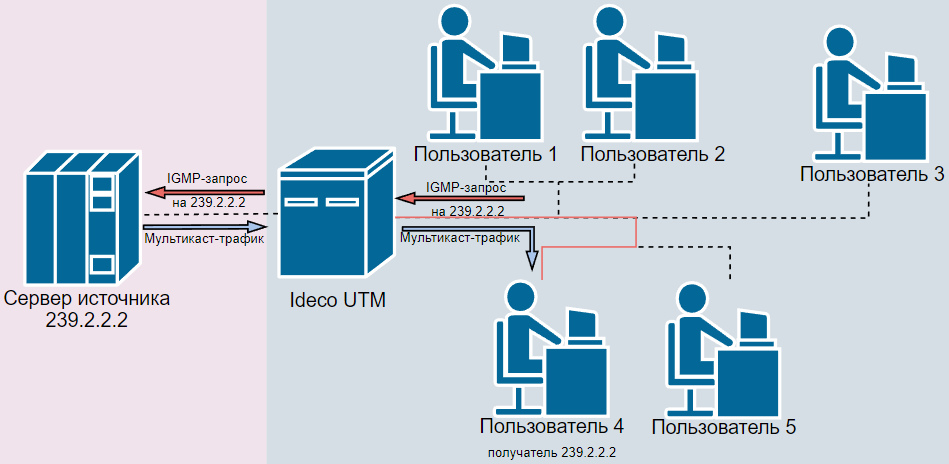
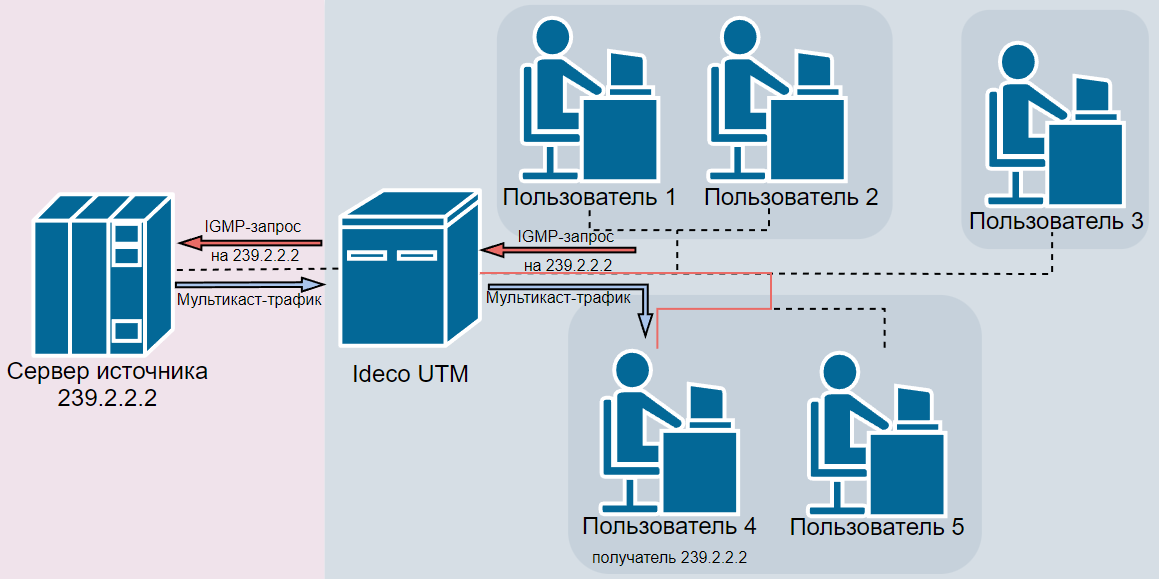
ICS-28393 УТМ. Добавить новый раздел IGMP

Changed region(s): [[0.0, 0.0, 1.0, 0.9957]]

diff --git a/settings/services/igmp.md b/settings/services/igmp.md
@@ -17,25 +17,24 @@ IGMP Proxy - протокол управления групповой (multicast
 
 ## Принцип работы
 
-В локальной сети используется версии IGMPv1 и IGMPv2.
+Со стороны клиентов IGMP Proxy поддерживает версии IGMPv1 и IGMPv2.
 
-Принцип работы на примере подключения двух пользователей к мультикаст-трафику одного источника: 
-* Сервер источника начинает трансляцию мультикаст-трафика в диапазоне 224.0.0.0/4. 
-* Пользователь 4 хочет подключиться к трансляции и генерирует IGMP-запрос (Join) на Ideco UTM для получения мультикаст-трафика от сервера источника. 
-* Ideco UTM получает IGMP-запрос и перенаправляет его к серверу источника;
-* Сервер источника получает запрос и начинает транслировать мультикаст-трафик на Ideco UTM;
-* На Ideco UTM поступает трафик и Пользователь 4 становятся получателем 239.2.2.2;
-* Ideco UTM передает трафик получателям 239.2.2.2; \
+Принцип работы на примере подключения двух пользователей к мультикаст-потоку одного источника: 
+* *Сервер источника* начинает трансляцию мультикаст-трафика с адреса из 224.0.0.0/4 диапазона. 
+* *Пользователь 4* хочет подключиться к трафику и генерирует IGMP-запрос (Join) на *Ideco UTM* для получения мультикаст-трафика от сервера источника. 
+* *Ideco UTM* получает IGMP-запрос и отправляет аналогичный запрос к серверу источника;
+* Сервер источника получает запрос и начинает транслировать мультикаст-трафик на *Ideco UTM*;
+* *Ideco UTM* пропускает трафик с адреса 239.2.2.2 в подсеть с *Пользователем 4* и *Пользователь 4* становится его получателем. \
 ![](../../.gitbook/assets/igmp.png)
-* Пользователь 3 так же решает подключиться к этой трансляции и генерирует IGMP-запрос (Join) на Ideco UTM;
-* Ideco UTM получает этот запрос и транслирует Пользователю 3 уже поступающий трафик; \
+* *Пользователь 3*, находящийся в другой подсети, также решает подключиться к этой трансляции и генерирует IGMP-запрос (Join) на Ideco UTM;
+* *Ideco UTM* получает этот запрос и транслирует *Пользователю 3* уже поступающий трафик; \
 ![](../../.gitbook/assets/igmp1.png)
 
-Ideco UTM переодически проверяет есть ли получатели, отправляя пользователям IGMP-запрос (Query). Пользователи в ответ отправляют Join, как при подключении. \
+Ideco UTM переодически проверяет, есть ли получатели, отправляя пользователям IGMP-запрос (Query). Пользователи в ответ отправляют Join, как при подключении. \
 Если на Ideco UTM приходит хотя бы один Join, то мультикаст-трафик продолжает транслироваться получателям.
 
 ## Настройка в Ideco UTM
 
-Для настройки перейдите в раздел **Сервисы -> IGMP Proxy**. Переведите раздел **IGMP Proxy** в положение **Включен**. В строке **Подключение к провайдеру** выберите Ethernet подключение.
+Для настройки перейдите в раздел **Сервисы -> IGMP Proxy**. Переведите раздел **IGMP Proxy** в положение **Включен**. В строке **Подключение к провайдеру** выберите Ethernet-подключение.
 
 ![](../../.gitbook/assets/igmp2.png)
